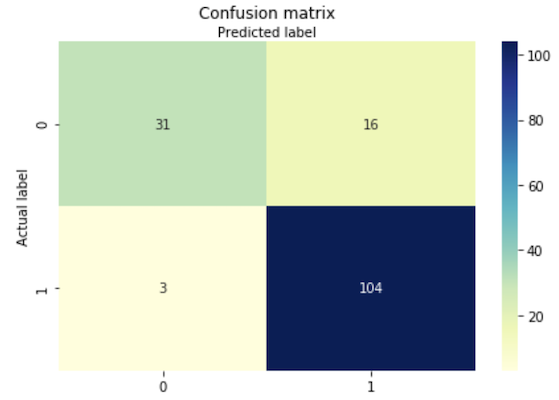
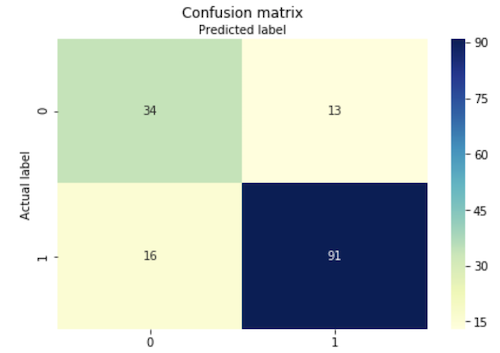
Article first draft commit

diff --git a/_site/2019/06/30/loan-approval.html b/_site/2019/06/30/loan-approval.html
@@ -137,6 +137,9 @@ where the value at (i, j) represents how strongly <em>feature i</em> is correlat
 
 <p><img src="/img/Loan-Approval/loanstatus.png" alt="Tensorboard Architecture" /></p>
 
+<p>There is a clear imbalance between the classes, and that can be very dangerous! Our model may end up highly biased towards the majority class, which
+is not ideal when it comes to the model’s generalization capabilities. For that reason, we will perform feature scaling to ensure uniformity, and also make sure that the algorithm we use to build the model is ‘aware’ that the classes are imbalanced.</p>
+
 <p><img src="/img/Loan-Approval/corr.png" alt="Tensorboard Architecture" /></p>
 
 <p>I was also curious about how the property area and the loan amount jointly affected the authorization of the loan. Let us have a look at a relational plot of the loan amount against approval separated by the property area.
@@ -182,9 +185,16 @@ single data point that is part of the dataset used to train and test the model.)
 <p>Let us begin by instantiating a Logistic Regression object (we will be using scikit-learn’s module) and split the dataset in the aforementioned way.</p>
 
 <figure class="highlight"><pre><code class="language-python" data-lang="python"><span class="c"># Liblinear is a solver that is effective for relatively smaller datasets.</span>
-<span class="n">lr</span> <span class="o">=</span> <span class="n">LogisticRegression</span><span class="p">(</span><span class="n">solver</span><span class="o">=</span><span class="s">'liblinear'</span><span class="p">)</span>
+<span class="n">lr</span> <span class="o">=</span> <span class="n">LogisticRegression</span><span class="p">(</span><span class="n">solver</span><span class="o">=</span><span class="s">'liblinear'</span><span class="p">,</span> <span class="n">class_weight</span><span class="o">=</span><span class="s">'balanced'</span><span class="p">)</span></code></pre></figure>
 
-<span class="c"># We will follow an 80-20 split pattern for our training and test data</span>
+<p>Notice that we specify that the weights of the classes in question have to be balanced. This ensures that the classes are appropriately weighted, thereby eliminating any bias created by an imbalance in the classes. If you are curious as to how the classes are weighted, <a href="https://chrisalbon.com/machine_learning/logistic_regression/handling_imbalanced_classes_in_logistic_regression/">this article by Chris Albon</a>  provides a comprehensive explanation.</p>
+
+<p>Before we pass in the data, let us perform feature scaling using Scikit-learn’s Standard Scaler.</p>
+
+<figure class="highlight"><pre><code class="language-python" data-lang="python"><span class="n">scaler</span> <span class="o">=</span> <span class="n">StandardScaler</span><span class="p">()</span>
+<span class="n">data_std</span> <span class="o">=</span> <span class="n">scaler</span><span class="o">.</span><span class="n">fit_transform</span><span class="p">(</span><span class="n">data</span><span class="p">)</span></code></pre></figure>
+
+<figure class="highlight"><pre><code class="language-python" data-lang="python"><span class="c"># We will follow an 80-20 split pattern for our training and test data</span>
 <span class="n">X_train</span><span class="p">,</span><span class="n">X_test</span><span class="p">,</span><span class="n">y_train</span><span class="p">,</span><span class="n">y_test</span> <span class="o">=</span> <span class="n">train_test_split</span><span class="p">(</span><span class="n">data</span><span class="p">,</span> <span class="n">y</span><span class="p">,</span> <span class="n">test_size</span><span class="o">=</span><span class="mf">0.2</span><span class="p">,</span> <span class="n">random_state</span> <span class="o">=</span> <span class="mi">0</span><span class="p">)</span></code></pre></figure>
 
 <p>Now that we have everything we need, we fit the model to the training data.</p>
@@ -247,9 +257,9 @@ the error rates. But, its hard to gain a concrete numerical measure of the model
 
 <p>For our model, the metrics’ values turned out to be:</p>
 <ol>
-  <li><strong>Accuracy: 0.8766233766233766</strong></li>
-  <li><strong>Precision: 0.8666666666666667</strong></li>
-  <li><strong>Recall: 0.9719626168224299</strong></li>
+  <li><strong>Accuracy: 0.8116883116883117</strong></li>
+  <li><strong>Precision: 0.875</strong></li>
+  <li><strong>Recall: 0.8504672897196262</strong></li>
 </ol>
 
 <p>It is an accepted practice to use precision and recall in conjunction to gauge the performance of a classfication model as one could simply
@@ -257,7 +267,10 @@ use instances that he or she knows would result in a correct prediction to gain 
 
 <figure class="highlight"><pre><code class="language-python" data-lang="python"><span class="k">print</span><span class="p">(</span><span class="s">"F1 Score:"</span><span class="p">,</span><span class="n">metrics</span><span class="o">.</span><span class="n">f1_score</span><span class="p">(</span><span class="n">y_test</span><span class="p">,</span> <span class="n">y_pred</span><span class="p">,</span> <span class="n">pos_label</span><span class="o">=</span><span class="s">'Y'</span><span class="p">))</span></code></pre></figure>
 
-<p><strong>F1 Score: 0.9162995594713657</strong></p>
+<p><strong>F1 Score: 0.8625592417061612</strong></p>
+
+<h1 id="conclusion">Conclusion</h1>
+<p>Alright, awesome! We sucessfully trained a model that can predict the response to a loan applicant based on the data we have on them. To do this at scale would be futile for us humans, but the performance of the classifier shows us just how powerful these techniques can be. Classification is but one of the multitude of techniques available as part of the Predictive Modeling toolbox. I hope that this has proven to be an informative and engaging introduction to the topic. Happy coding!</p>
 
   </article>
 
